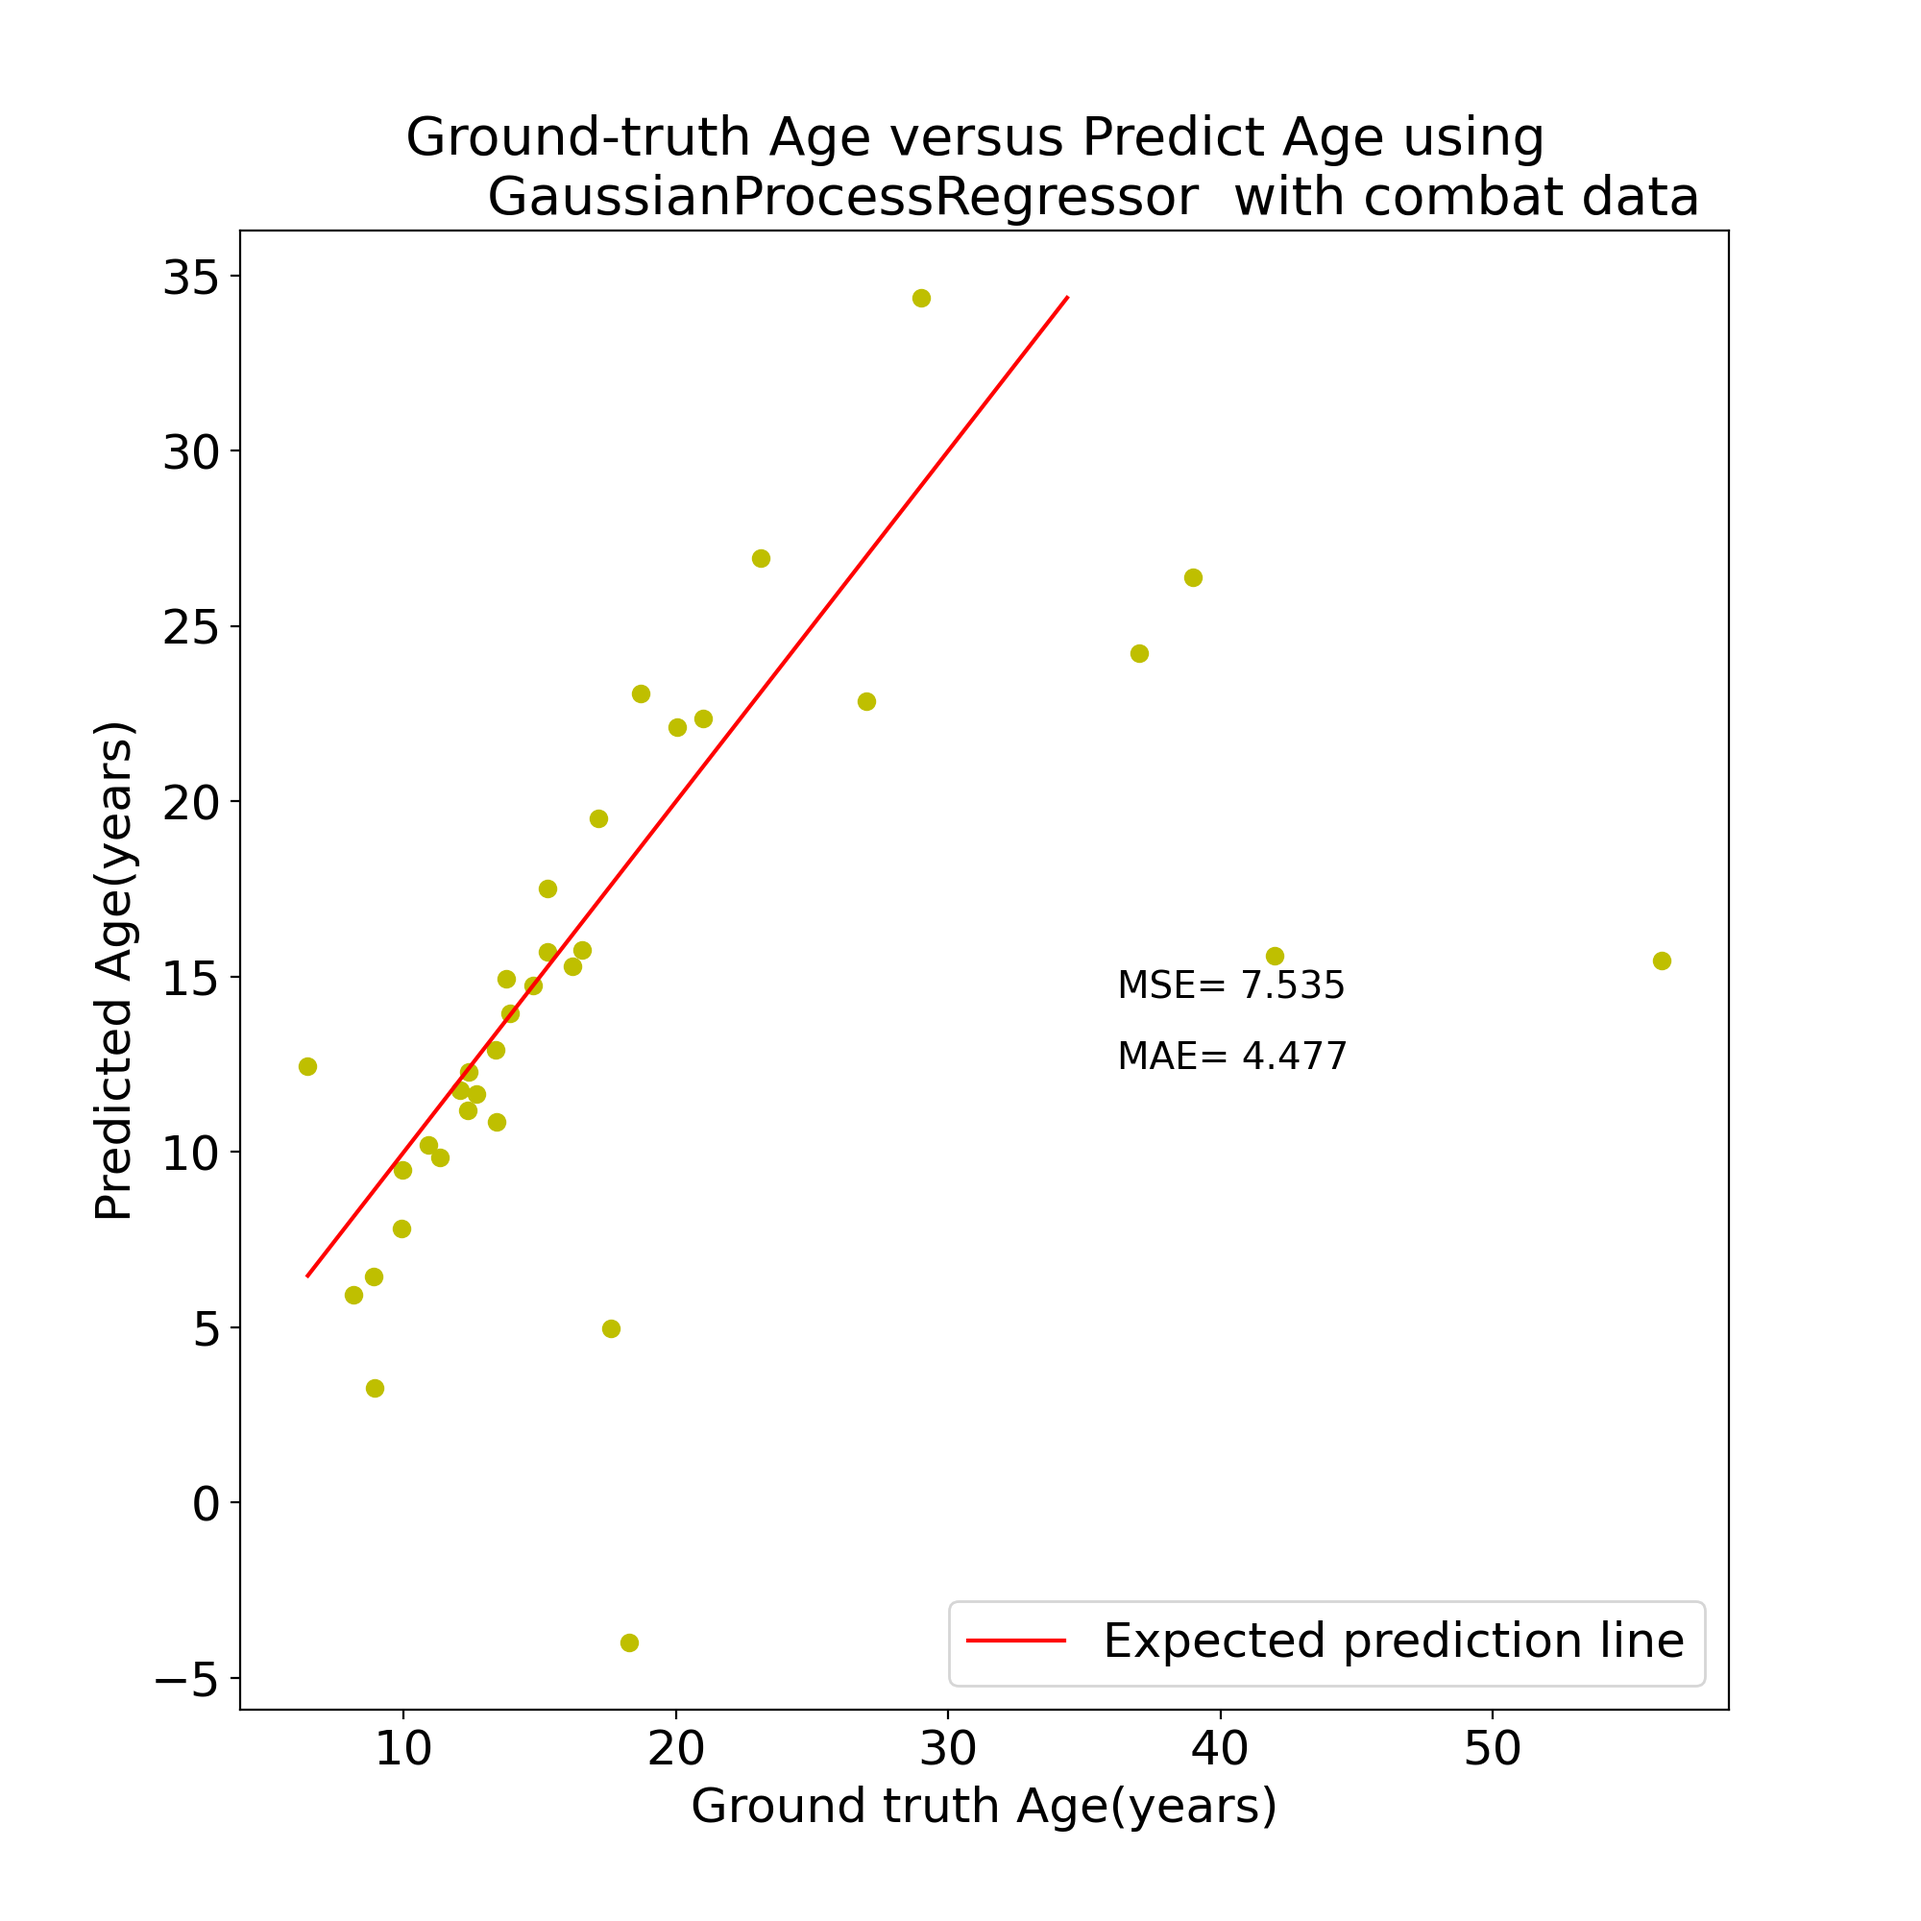
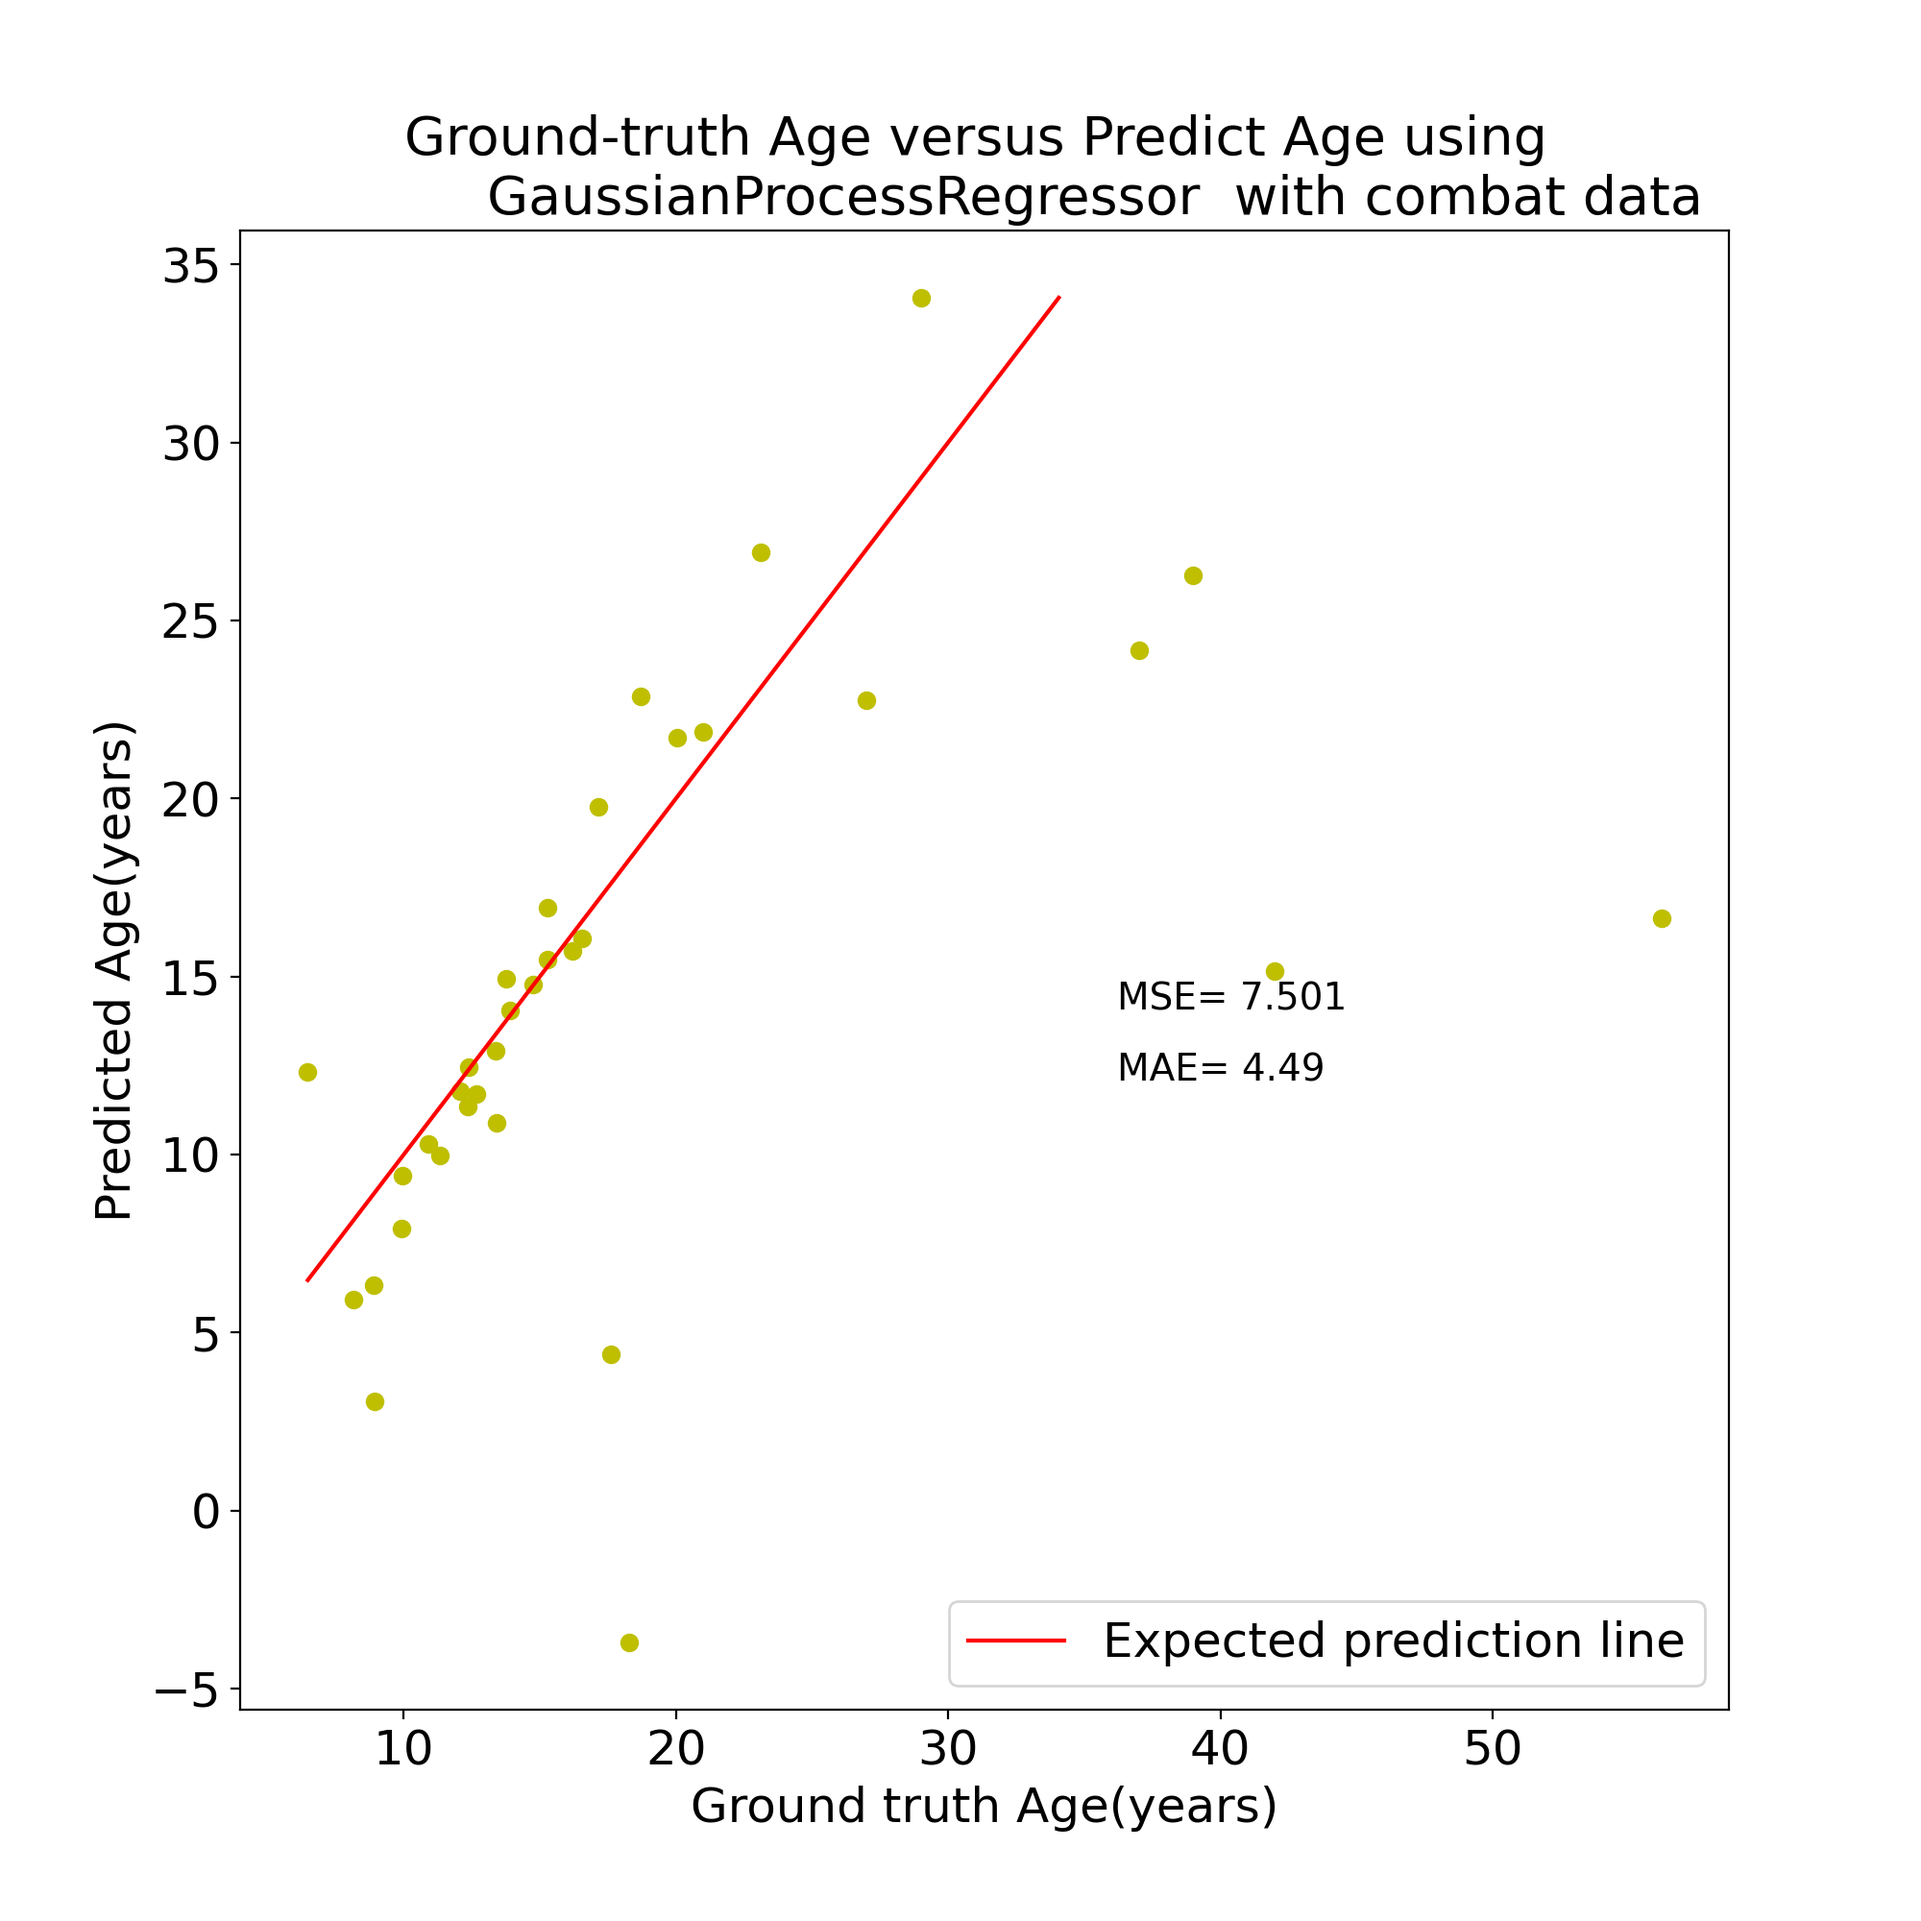
ML.py error fixing

diff --git a/BrainAge/features.py b/BrainAge/features.py
@@ -250,7 +250,7 @@ class Preprocessing:
         )["data"]
         df_combat_harmonized = pd.DataFrame(array_combat_harmonized.transpose())
         df_combat_harmonized.columns = dataframe.keys()
-        #df_combat_harmonized[['AGE_AT_SCAN','AGE_CLASS','DX_GROUP','SEX','FIQ']] = dataframe[['AGE_AT_SCAN','AGE_CLASS','DX_GROUP','SEX','FIQ']]
+        df_combat_harmonized[['AGE_AT_SCAN','AGE_CLASS','DX_GROUP','SEX','FIQ']] = dataframe[['AGE_AT_SCAN','AGE_CLASS','DX_GROUP','SEX','FIQ']]
 
         return df_combat_harmonized
 

diff --git a/BrainAge/ML.py b/BrainAge/ML.py
@@ -192,7 +192,7 @@ for harmonize_option in harmonize_list:
 
 #
 # #Deep learning
-pipe = Pipeline(steps=[('Feature', SelectKBest(score_func=f_classif, k=10)), ('Scaler', RobustScaler()), ('Deepmodel', DeepRegression(epochs=10))])
+pipe = Pipeline(steps=[('Feature', SelectKBest(score_func=f_regression, k=10)), ('Scaler', RobustScaler()), ('Deepmodel', DeepRegression(epochs=10))])
 predict_y, MSE, MAE = regression.k_fold(dataframe.drop(['AGE_AT_SCAN'],axis=1), dataframe['AGE_AT_SCAN'], 10, pipe)
 
 
